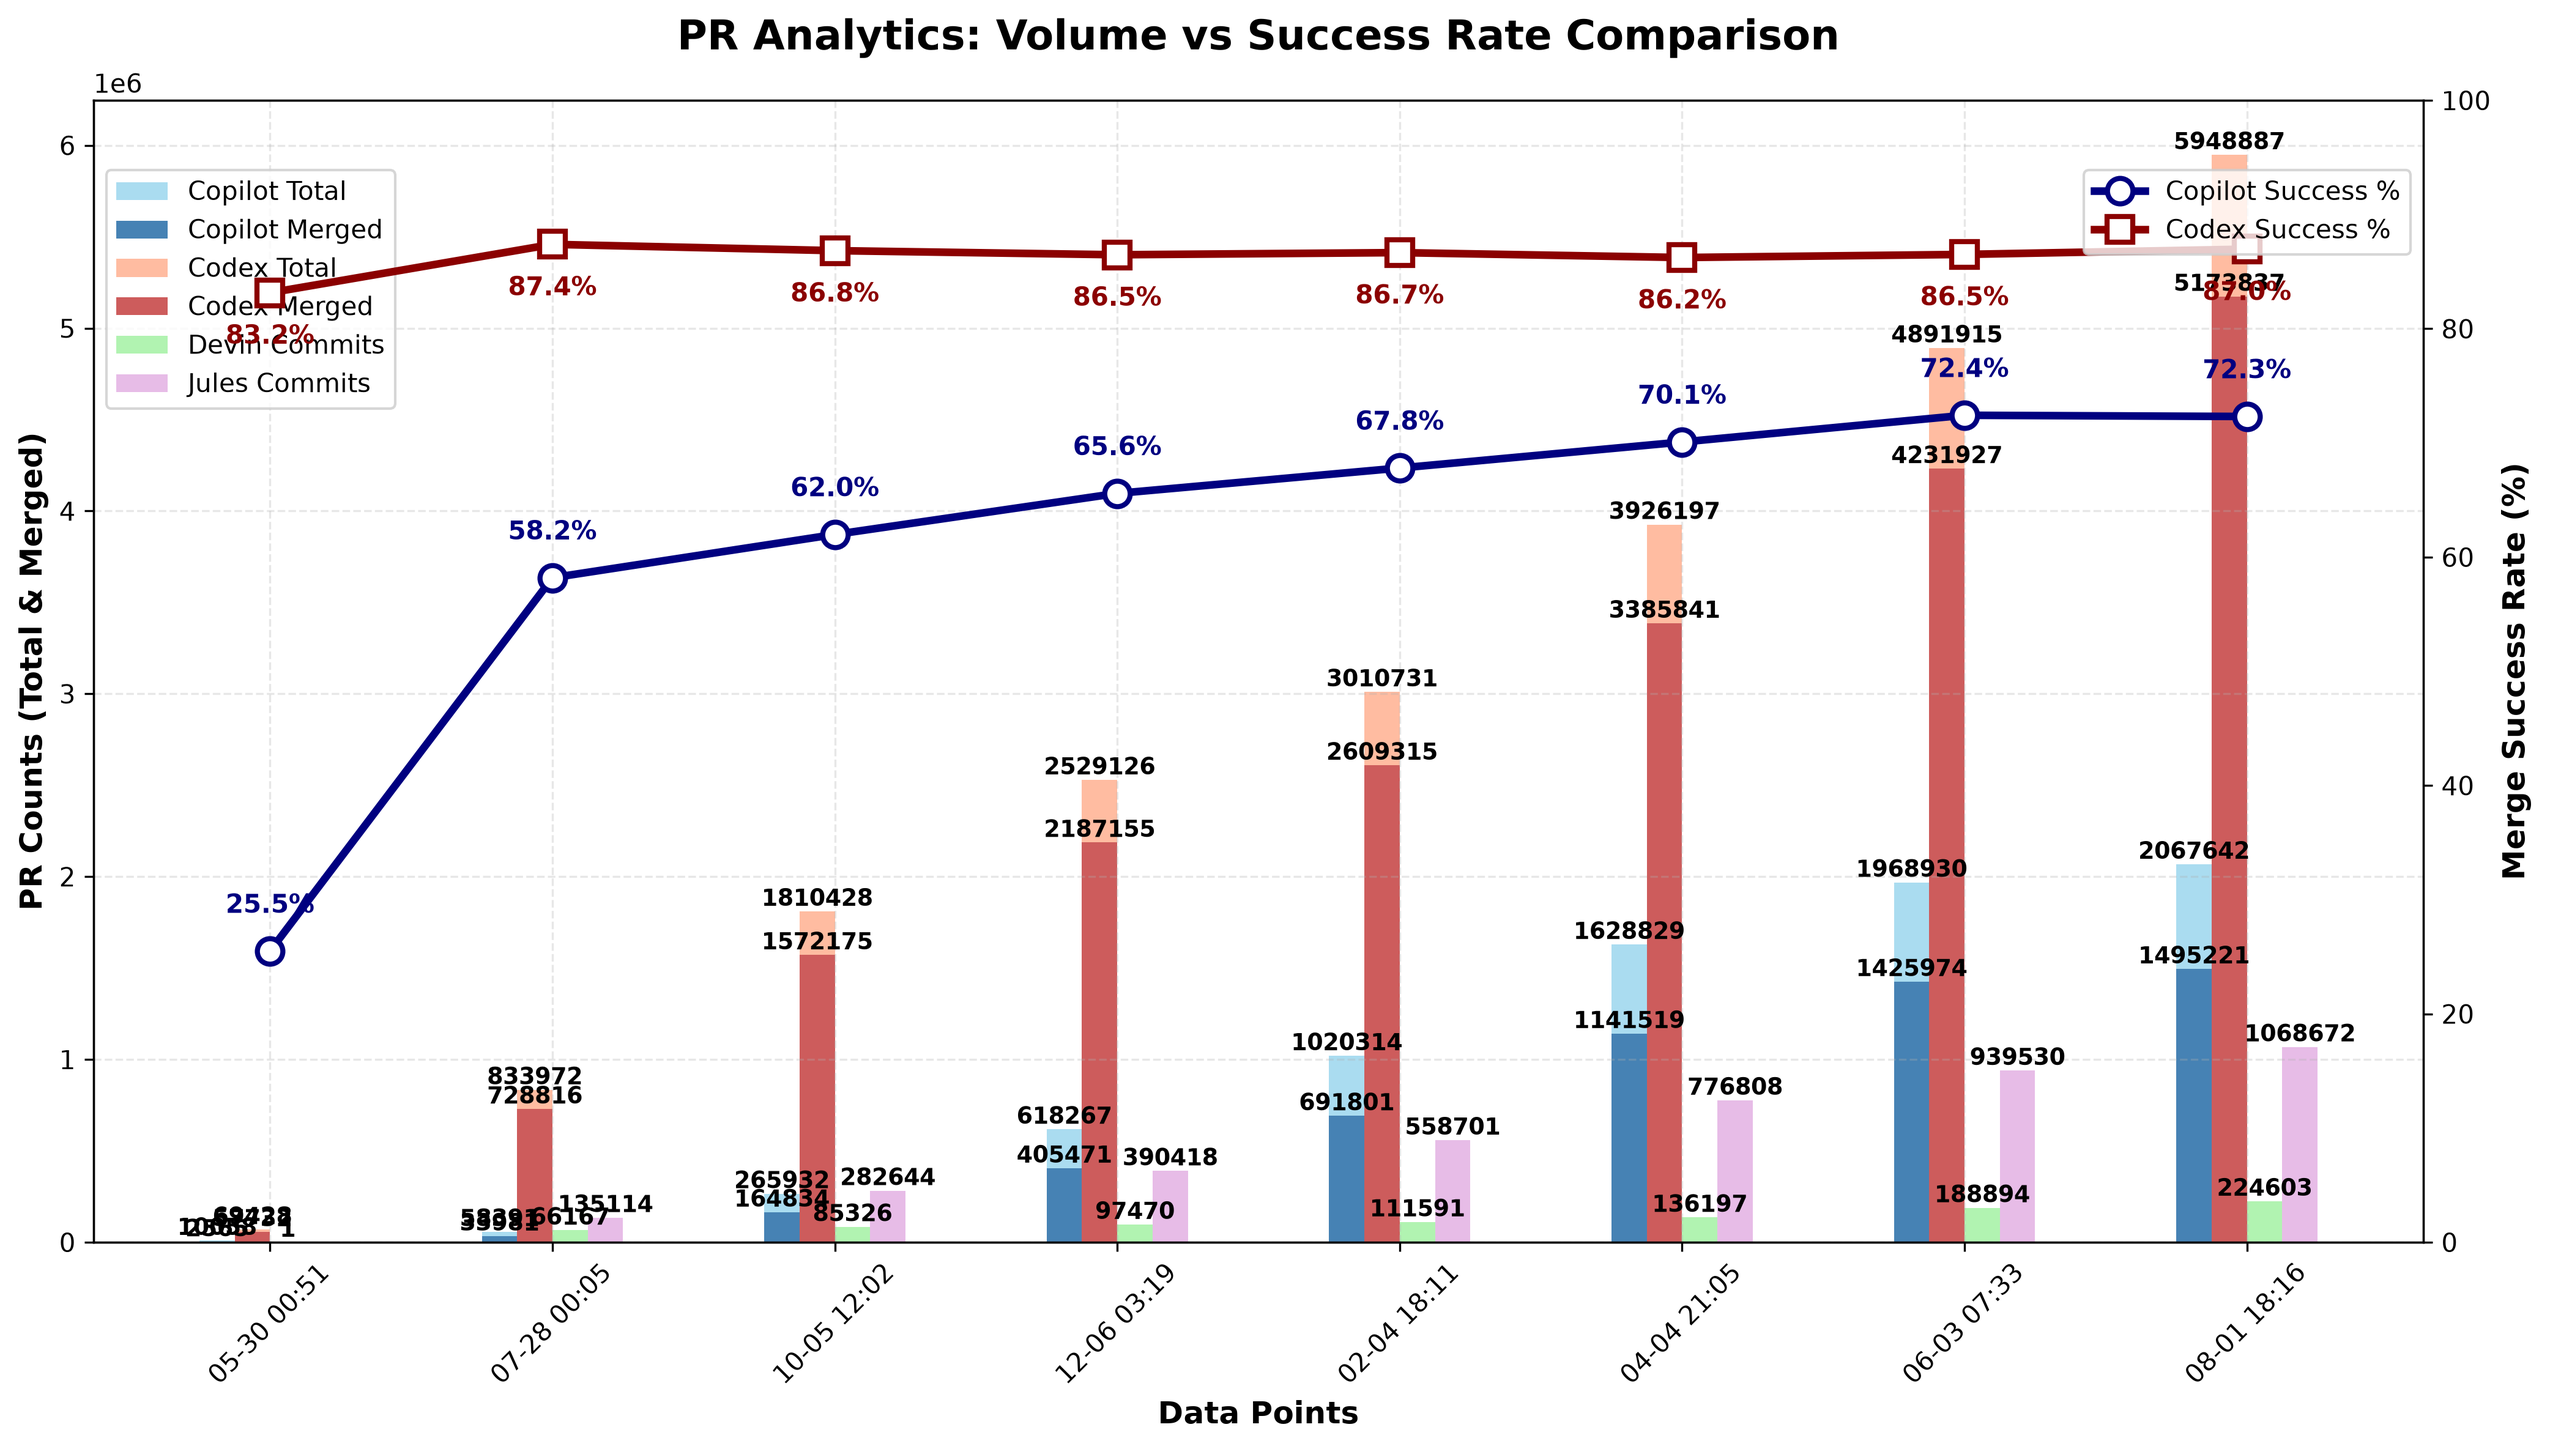
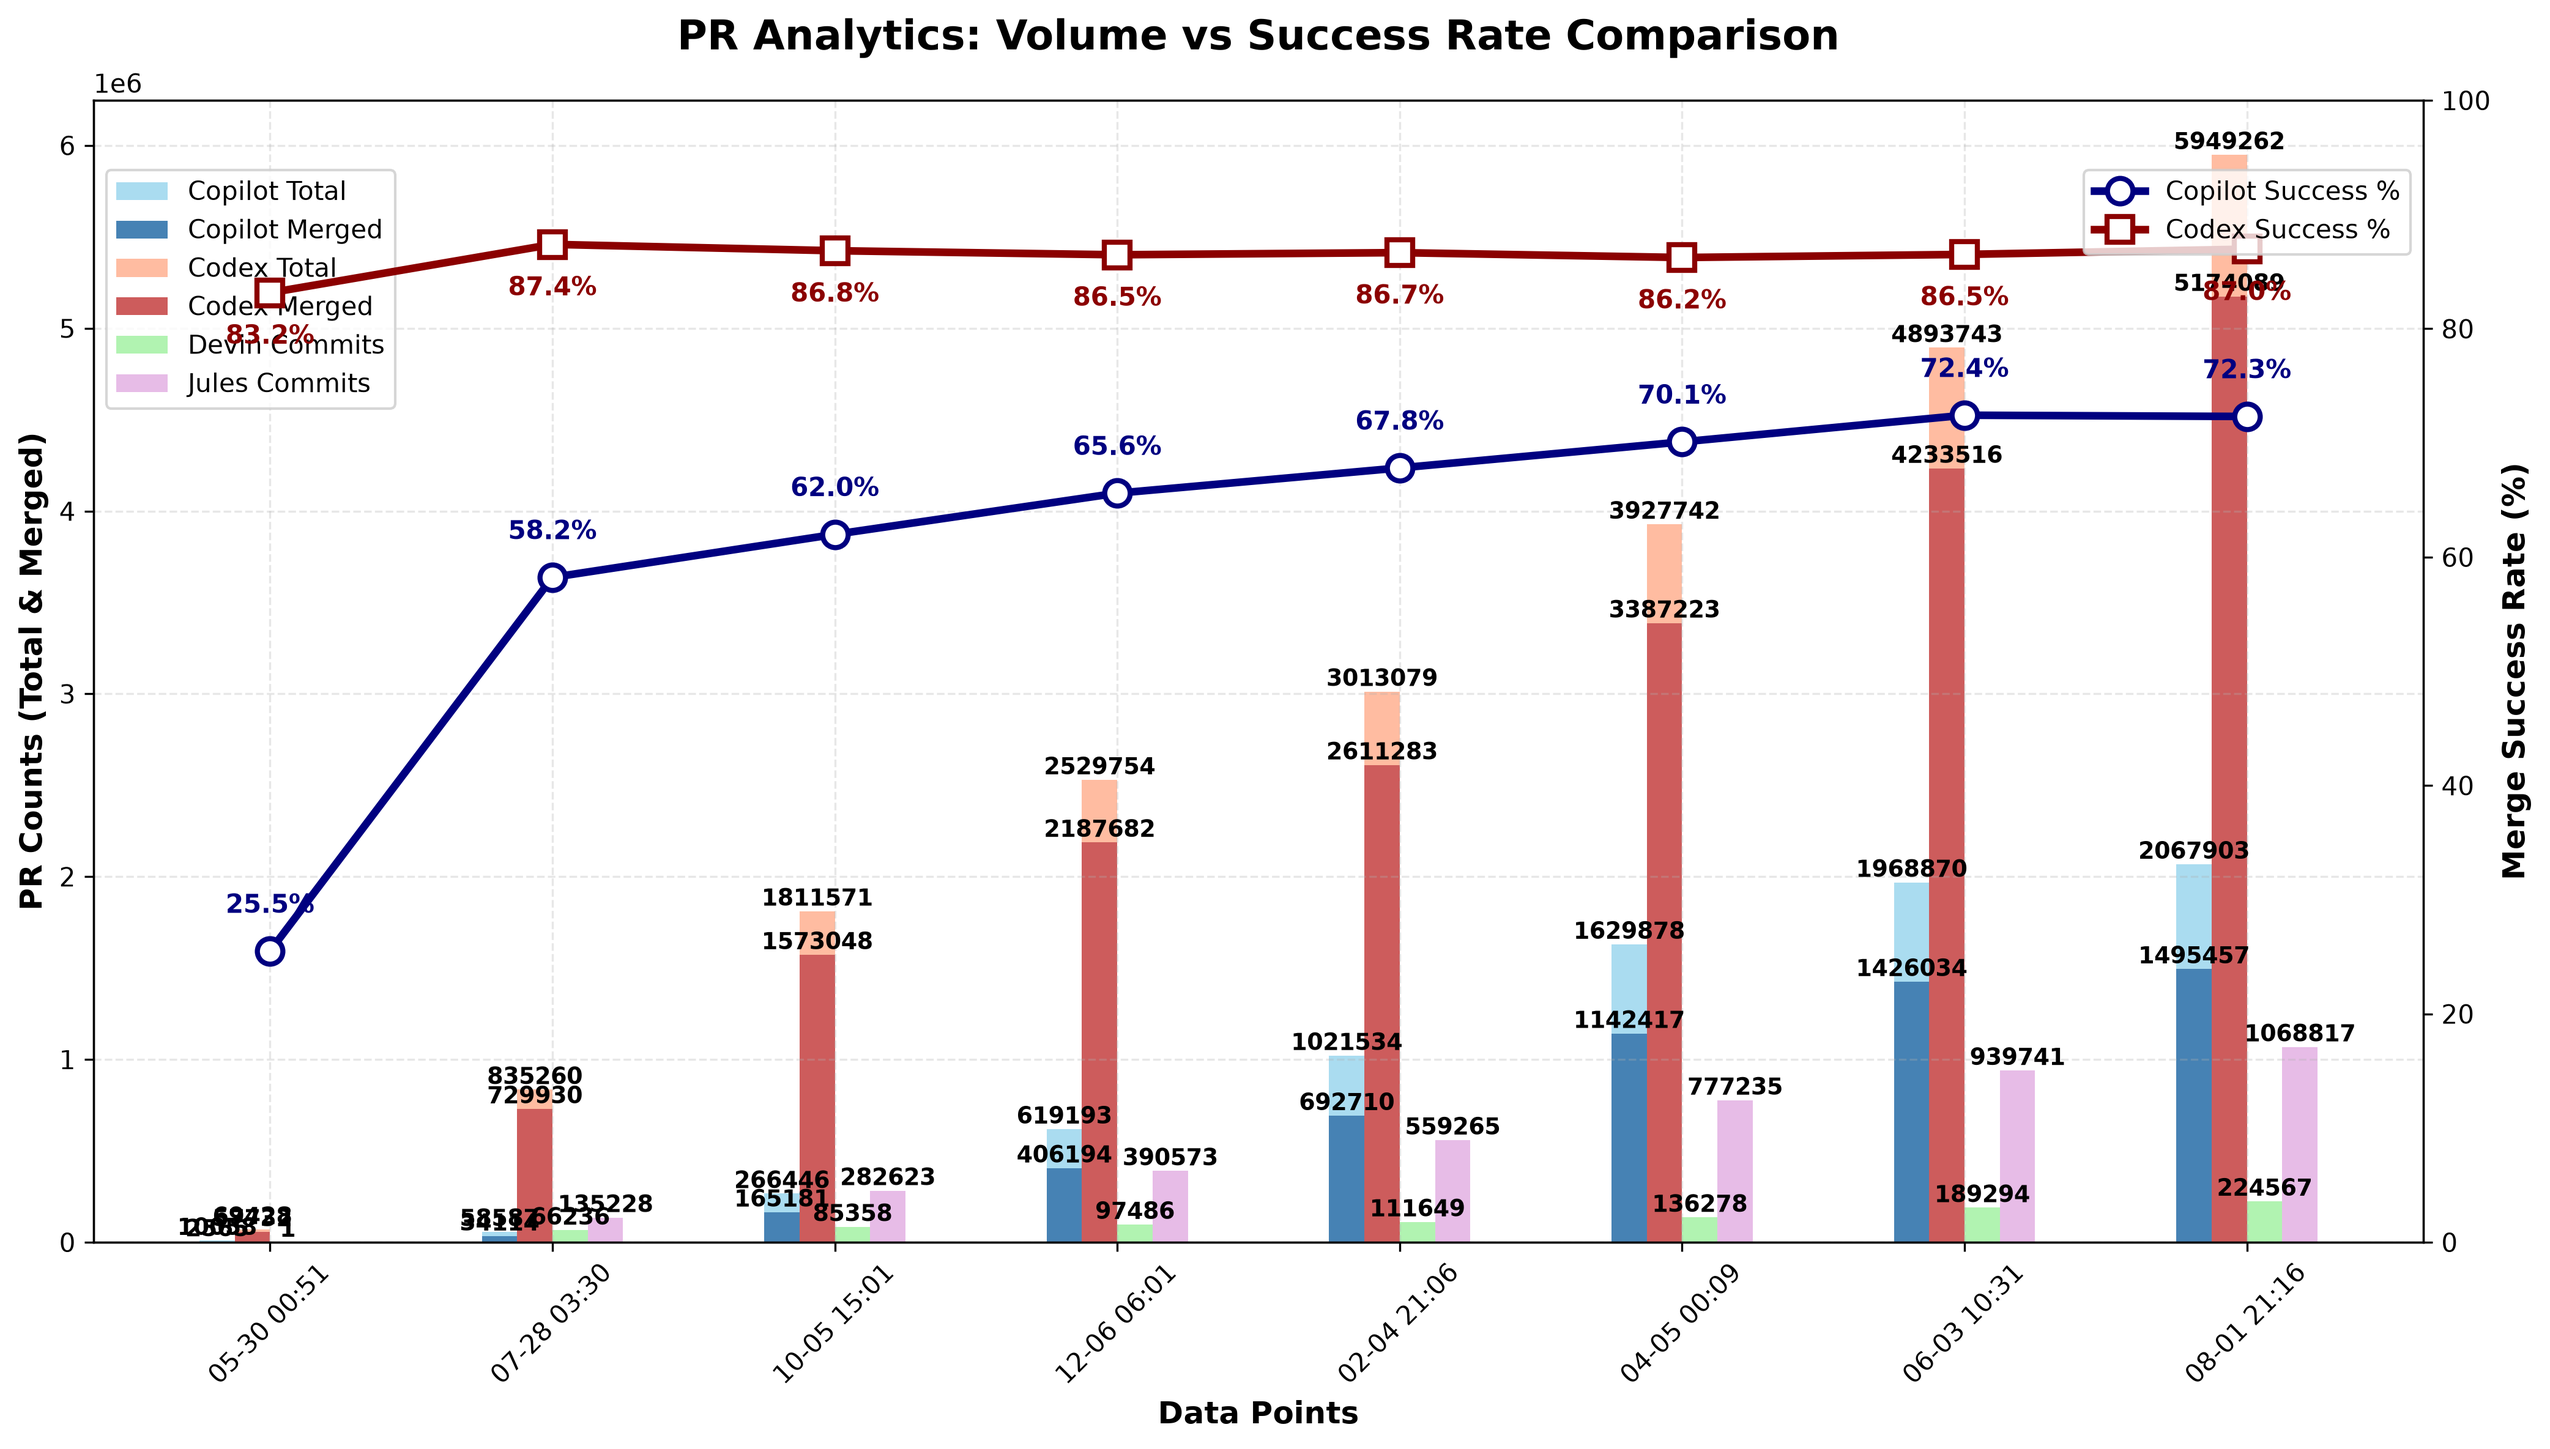
chore: update PR‑approval chart

diff --git a/docs/index.html b/docs/index.html
@@ -3351,6 +3351,7 @@
                         <td>N/A</td>
                         <td>N/A</td>
                         <td>N/A</td>
+                        <td>N/A</td>
                     </tr>
                     <tr>
                         <td>Codex</td>
@@ -6660,27 +6661,28 @@
                         <td>N/A</td>
                         <td>N/A</td>
                         <td>N/A</td>
+                        <td>N/A</td>
                     </tr>
                 <tr>
                         <td>Devin</td>
                         <td>N/A</td>
                         <td>N/A</td>
                         <td>N/A</td>
-                        <td>224,603</td>
+                        <td>224,567</td>
                     </tr>
                     <tr>
                         <td>Jules</td>
                         <td>N/A</td>
                         <td>N/A</td>
                         <td>N/A</td>
-                        <td>1,068,672</td>
+                        <td>1,068,817</td>
                     </tr>
                     </tbody>
             </table>
         </section>
 
         <footer>
-            <p>Last updated: <span id="last-updated">August 01, 2026 18:16 UTC</span></p>
+            <p>Last updated: <span id="last-updated">August 01, 2026 21:16 UTC</span></p>
             <p><a href="https://github.com/aavetis/ai-pr-watcher">View on GitHub</a></p>
         </footer>
     </div>

diff --git a/README.md b/README.md
@@ -19,7 +19,7 @@ Explore the GitHub search queries used:
 
 | Service | Total PRs | Merged PRs | Merge Rate | Total Commits |
 | ------- | --------- | ---------- | ---------- | ------------- |
-| Copilot | 2,067,642 | 1,495,221 | 72.32% | N/A           |
-| Codex   | 5,948,887 | 5,173,837 | 86.97% | N/A           |
-| Devin   | N/A       | N/A        | N/A        | 224,603 |
-| Jules   | N/A       | N/A        | N/A        | 1,068,672 |
+| Copilot | 2,067,903 | 1,495,457 | 72.32% | N/A           |
+| Codex   | 5,949,262 | 5,174,089 | 86.97% | N/A           |
+| Devin   | N/A       | N/A        | N/A        | 224,567 |
+| Jules   | N/A       | N/A        | N/A        | 1,068,817 |
